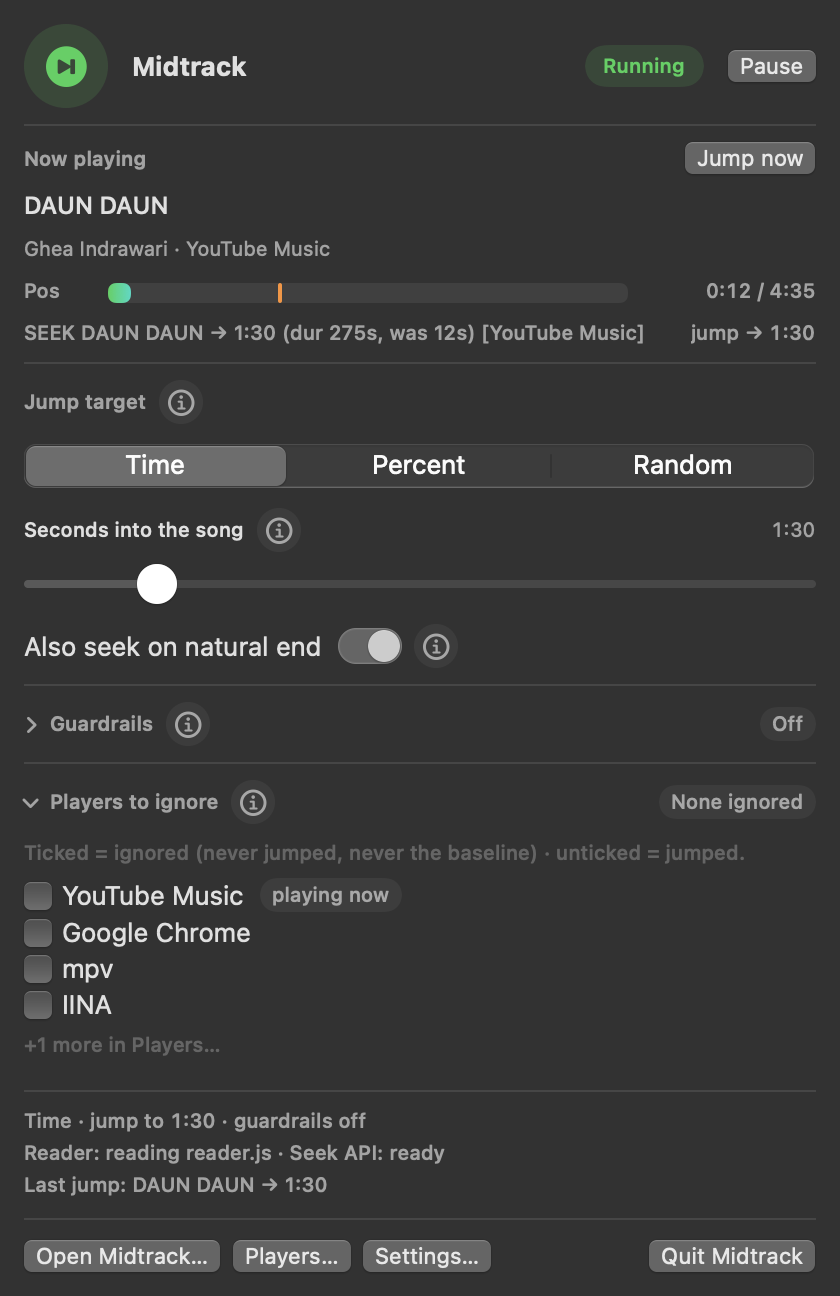
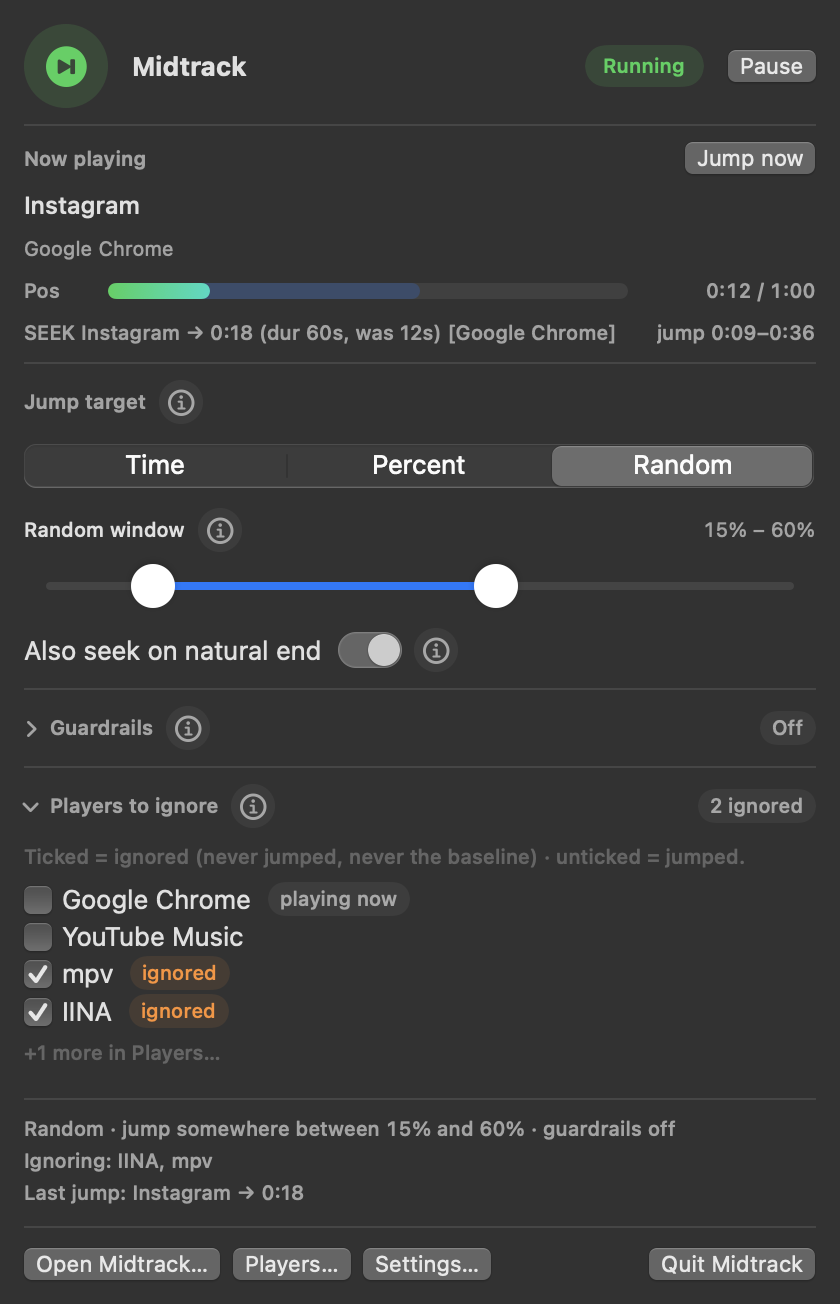
Replace Random's two sliders with one two-handle range control
Random now uses a custom PercentRangeSlider: one track, two draggable thumbs,
and a filled segment between them. The window is always ordered and inclusive;
dragging either end writes both values in one settings update, and each thumb
is VoiceOver-adjustable. The separate From and To sliders are gone.

Also stop animating the menu bar disclosure height. The compact Panel's window
is resized to fit its content by AppKit, and animating that height made the
panel clip and stutter. The content now swaps in one step while only the
chevron rotates. The panel is slightly tighter as a result.

Docs screenshots now show Random mode and the new window control.

diff --git a/Sources/Midtrack/ControlViews.swift b/Sources/Midtrack/ControlViews.swift
@@ -109,15 +109,17 @@ struct CollapsibleSection<Content: View>: View {
         VStack(alignment: .leading, spacing: isExpanded ? 8 : 0) {
             HStack(spacing: 6) {
                 Button {
-                    withAnimation(.easeInOut(duration: 0.18)) {
-                        isExpanded.toggle()
-                    }
+                    // Deliberately not animated: the menu bar window changes its
+                    // height with the content, and animating that resize made the
+                    // panel clip and stutter. The chevron still eases around.
+                    isExpanded.toggle()
                 } label: {
                     HStack(spacing: 6) {
                         Image(systemName: "chevron.right")
                             .font(.system(size: 9, weight: .bold))
                             .foregroundStyle(.secondary)
                             .rotationEffect(.degrees(isExpanded ? 90 : 0))
+                            .animation(.easeOut(duration: 0.12), value: isExpanded)
                             .accessibilityHidden(true)
                         Text(title)
                             .font(.caption.weight(.semibold))
@@ -149,11 +151,9 @@ struct CollapsibleSection<Content: View>: View {
 
             if isExpanded {
                 content
-                    .transition(.opacity.combined(with: .move(edge: .top)))
             }
         }
         .frame(maxWidth: .infinity, alignment: .leading)
-        .animation(.easeInOut(duration: 0.18), value: isExpanded)
     }
 }
 
@@ -440,6 +440,122 @@ struct RuleSlider: View {
     }
 }
 
+/// A two-thumb slider for the random window. SwiftUI's `Slider` is
+/// single-value, so this draws one track with two draggable thumbs and a filled
+/// segment between them. The window is always ordered and inclusive.
+struct PercentRangeSlider: View {
+    @Binding var window: ClosedRange<Int>
+    var tint: Color = .accentColor
+
+    private let bounds = 1...99
+    private let thumbSize: CGFloat = 22
+    private let trackHeight: CGFloat = 4
+    private let spaceName = "percentRangeSlider"
+
+    var body: some View {
+        GeometryReader { geometry in
+            let usable = max(1, geometry.size.width - thumbSize)
+            let lowX = thumbSize / 2 + usable * fraction(window.lowerBound)
+            let highX = thumbSize / 2 + usable * fraction(window.upperBound)
+
+            ZStack(alignment: .leading) {
+                Capsule()
+                    .fill(Color.primary.opacity(0.10))
+                    .frame(height: trackHeight)
+                    .padding(.horizontal, thumbSize / 2)
+
+                Capsule()
+                    .fill(tint)
+                    .frame(width: max(0, highX - lowX), height: trackHeight)
+                    .offset(x: lowX)
+
+                thumb(at: lowX, isLower: true, usable: usable)
+                thumb(at: highX, isLower: false, usable: usable)
+            }
+            .coordinateSpace(name: spaceName)
+        }
+        .frame(height: thumbSize)
+        .accessibilityElement(children: .contain)
+        .help("Drag either end to set the random window")
+    }
+
+    private func thumb(at x: CGFloat, isLower: Bool, usable: CGFloat) -> some View {
+        let value = isLower ? window.lowerBound : window.upperBound
+        return Circle()
+            .fill(.white)
+            .overlay(
+                Circle().strokeBorder(Color.primary.opacity(0.12), lineWidth: 1)
+            )
+            .frame(width: thumbSize, height: thumbSize)
+            .shadow(color: .black.opacity(0.18), radius: 2, y: 1)
+            .offset(x: x - thumbSize / 2)
+            .gesture(dragGesture(isLower: isLower, usable: usable))
+            .accessibilityElement(children: .ignore)
+            .accessibilityLabel(isLower ? "Random window start" : "Random window end")
+            .accessibilityValue("\(value) percent")
+            .accessibilityHint("Drag or adjust to move this end of the random window")
+            .accessibilityAdjustableAction { direction in
+                adjust(isLower: isLower, by: direction == .increment ? 1 : -1)
+            }
+    }
+
+    private func dragGesture(isLower: Bool, usable: CGFloat) -> some Gesture {
+        DragGesture(minimumDistance: 0, coordinateSpace: .named(spaceName))
+            .onChanged { drag in
+                let x = min(max(drag.location.x - thumbSize / 2, 0), usable)
+                let span = CGFloat(bounds.upperBound - bounds.lowerBound)
+                let stepped = Int((x / usable * span).rounded()) + bounds.lowerBound
+                let value = min(max(stepped, bounds.lowerBound), bounds.upperBound)
+
+                if isLower {
+                    let lower = min(value, window.upperBound)
+                    if lower != window.lowerBound { window = lower...window.upperBound }
+                } else {
+                    let upper = max(value, window.lowerBound)
+                    if upper != window.upperBound { window = window.lowerBound...upper }
+                }
+            }
+    }
+
+    private func adjust(isLower: Bool, by delta: Int) {
+        if isLower {
+            let lower = min(max(window.lowerBound + delta, bounds.lowerBound), window.upperBound)
+            if lower != window.lowerBound { window = lower...window.upperBound }
+        } else {
+            let upper = min(max(window.upperBound + delta, window.lowerBound), bounds.upperBound)
+            if upper != window.upperBound { window = window.lowerBound...upper }
+        }
+    }
+
+    private func fraction(_ value: Int) -> CGFloat {
+        let span = CGFloat(bounds.upperBound - bounds.lowerBound)
+        let clamped = min(max(value, bounds.lowerBound), bounds.upperBound)
+        return CGFloat(clamped - bounds.lowerBound) / span
+    }
+}
+
+struct PercentRangeRow: View {
+    @Binding var window: ClosedRange<Int>
+    let info: InfoContent
+    var compact = true
+
+    var body: some View {
+        VStack(alignment: .leading, spacing: 6) {
+            HStack(spacing: 6) {
+                Text("Random window")
+                    .font(compact ? .caption.weight(.medium) : .subheadline.weight(.medium))
+                InfoButton(title: info.title, message: info.message)
+                Spacer()
+                Text("\(window.lowerBound)% – \(window.upperBound)%")
+                    .font(compact ? .caption.monospacedDigit() : .subheadline.monospacedDigit())
+                    .foregroundStyle(.secondary)
+                    .accessibilityHidden(true)
+            }
+            PercentRangeSlider(window: $window)
+        }
+    }
+}
+
 struct JumpTargetSection: View {
     @ObservedObject var model: AppModel
     var compact: Bool = true
@@ -493,29 +609,20 @@ struct JumpTargetSection: View {
                     compact: compact
                 )
             case .random:
-                RuleSlider(
-                    label: "From",
-                    value: "\(model.settings.randomMin)%",
-                    binding: $model.settings.int(\.randomMin),
-                    range: 1...99,
-                    step: 1,
-                    info: InfoContent(
-                        title: "Random window",
-                        message: "Random draws a new spot from this window for every track. "
-                            + "From and To are both percentages of the track."
+                PercentRangeRow(
+                    window: Binding(
+                        get: { model.settings.window },
+                        set: { range in
+                            var next = model.settings
+                            next.randomMin = range.lowerBound
+                            next.randomMax = range.upperBound
+                            model.settings = next
+                        }
                     ),
-                    compact: compact
-                )
-                RuleSlider(
-                    label: "To",
-                    value: "\(model.settings.randomMax)%",
-                    binding: $model.settings.int(\.randomMax),
-                    range: 1...99,
-                    step: 1,
                     info: InfoContent(
                         title: "Random window",
-                        message: "Random draws a new spot from this window for every track. "
-                            + "The window is ordered for you if the two ends cross."
+                        message: "Random picks a fresh spot inside this window for every track. "
+                            + "Drag either end to move the start or the end of the window."
                     ),
                     compact: compact
                 )

diff --git a/README.md b/README.md
@@ -64,7 +64,7 @@ footer opens the full tab.
 | **Jump now** | Applies the rule to the song **already playing** — the Android app's third notification button. It ignores the dedup and the min-length limit (an explicit “do it anyway”), but still refuses a track with no known length. Greyed out, with the reason, while paused or when nothing is playing |
 | **Time / Percent / Random** | How the jump target is chosen |
 | **Seconds / Percent into the song** | A fixed offset, or the fraction of every track |
-| **From / To** | The window Random picks from |
+| **Random window** | One two-handle slider; drag either end to set where Random may land |
 | **Also seek on natural end** | Off = only seek tracks you skipped to; tracks that ended by themselves are left alone |
 | **Enable guardrails** | Off by default. While off, Min length and Max jump are ignored and their sliders are locked; turning it on applies the values below |
 | **Min length** | Nothing shorter than this is jumped — an ad, a jingle, a 26-second X/Threads video. It keys on the *track's length*, not on which app is playing. Default 1:30. 0 turns this limit off |
@@ -179,11 +179,11 @@ Midtrack self-check
   bundle          : com.asep.midtrack (…/dist/Midtrack.app)
   reader script   : …/Contents/Resources/reader.js (found)
   MediaRemote seek: available
-  settings        : on · Time · jump to 1:30 · guardrails off · auto-next on
-  ignoring        : nobody
-  seen players    : YouTube Music, Google Chrome, mpv, IINA, Cog
+  settings        : on · Random · jump somewhere between 15% and 60% · guardrails off · auto-next on
+  ignoring        : IINA, mpv
+  seen players    : Google Chrome, YouTube Music, mpv, IINA, Cog
   log             : /Users/asep/Library/Logs/Midtrack/app.log
-  now playing     : YouTube Music · DAUN DAUN — Ghea Indrawari (4:35 / 4:35, rate 0.0)
+  now playing     : Google Chrome · Instagram (0:00 / 1:00, rate 1.0)
 RESULT: PASS — the seek API is reachable and reader.js is producing snapshots.
 ```
 

diff --git a/CHANGELOG.md b/CHANGELOG.md
@@ -16,6 +16,8 @@ First Midtrack release: **Skip to the good part — automatically.**
 - A collapsible menu bar panel: **Players to ignore** opens by default, while
   **Guardrails** starts collapsed. Opening one folds the other away so the panel
   stays menu-bar sized.
+- A two-handle **Random window** slider for Random mode, replacing the separate
+  From and To sliders.
 - A diagnostics page with live status, log access, a copyable report, and the
   `--check` command.
 - A monochrome template version of the app mark for the menu bar, dimmed while
@@ -37,5 +39,7 @@ First Midtrack release: **Skip to the good part — automatically.**
 ### Fixed
 - Slider values snap while the track stays continuous, so macOS no longer draws
   a tick mark for every integer.
+- Panel disclosure no longer animates the menu bar window height — only the
+  chevron eases — so expanding a section no longer clips or stutters.
 - Preferences no longer ask `UserDefaults` for the app's own bundle identifier
   as a suite (which Foundation rejects).
